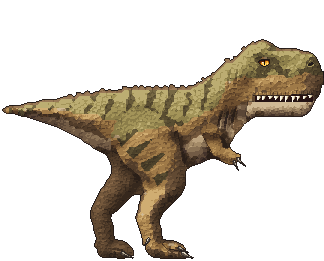
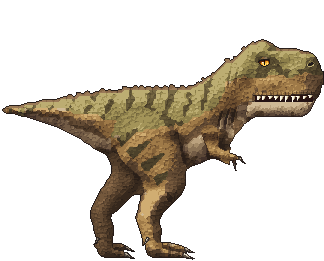
Rex: toes and claws drawn toe by toe, a two-fingered hand
Each foot is the ball of the foot and two toes seen from the side, the
outer one in front and the middle one behind it, three knuckles each with
creases between and a claw at the tip; the far foot the same, darker. The
little arm bends at a clear elbow to a hand of two spread fingers, each
with its claw.

diff --git a/internal/dinopaint/rex.go b/internal/dinopaint/rex.go
@@ -16,12 +16,25 @@ var (
 func init() { Register(rex()) }
 
 func rex() *Species {
+	// The feet: the ball of the foot, then two toes seen from the side, the
+	// outer one in front and low, the middle one behind it and longer, each
+	// in three knuckles. The far foot is the same, smaller and darker.
+	nearBall := Ellipse(51.6, 83.4, 3.0, 2.6, 0.1)
+	nearToe := Path([3]float64{53.2, 84.2, 1.75}, [3]float64{56.6, 84.6, 1.45}, [3]float64{59.6, 85.0, 1.15}, [3]float64{61.9, 85.3, 0.85})
+	nearToe2 := Path([3]float64{53.4, 82.2, 1.45}, [3]float64{56.8, 82.0, 1.2}, [3]float64{59.9, 82.5, 0.95}, [3]float64{62.3, 83.3, 0.7})
+	farBall := Ellipse(35.2, 83.4, 2.8, 2.5, 0.1)
+	farToe := Path([3]float64{36.8, 84.2, 1.6}, [3]float64{39.8, 84.6, 1.3}, [3]float64{42.3, 85.1, 0.85})
+	farToe2 := Path([3]float64{37, 82.2, 1.35}, [3]float64{40, 82.1, 1.1}, [3]float64{42.5, 82.8, 0.7})
+	finger1 := Cone(78.0, 52.2, 0.75, 80.1, 52.9, 0.55) // the near finger
+	finger2 := Cone(77.5, 52.9, 0.72, 78.4, 54.8, 0.52) // the far one, behind
+	feet := Union(nearBall, nearToe, nearToe2, farBall, farToe, farToe2)
+	hand := Union(Cone(76.2, 52.1, 1.3, 78.2, 52.5, 1.05), finger1, finger2)
 	// The masses, in depth order.
 	farLeg := Union(
-		Cone(41, 49, 8.5, 40.5, 60, 5.5),      // thigh
-		Cone(40.5, 60, 5.2, 34, 71, 3.4),      // shin
-		Cone(34, 71, 3.4, 35, 81.5, 2.8),      // metatarsus
-		Cone(35, 83.2, 2.8, 41.2, 84.9, 1.35), // toes
+		Cone(41, 49, 8.5, 40.5, 60, 5.5), // thigh
+		Cone(40.5, 60, 5.2, 34, 71, 3.4), // shin
+		Cone(34, 71, 3.4, 35, 81.5, 2.8), // metatarsus
+		farBall, farToe,
 	)
 	body := Blend(3,
 		Path([3]float64{-1, 37.2, 0.8}, [3]float64{12, 36.6, 2.8}, [3]float64{24, 37, 5.8}, [3]float64{35, 39.5, 9.5}), // the tail
@@ -31,27 +44,35 @@ func rex() *Species {
 		Poly(77, 21, 84, 14, 89, 12.5, 95, 14.5, 102, 15.5, 107, 19, 108, 27, 107, 33, 104, 40, 84, 40.5, 78, 36), // the head
 	)
 	jaw := Poly(82.5, 33.7, 105.5, 33.4, 105, 36.5, 102.5, 39.6, 86, 40.2, 81.6, 38.5) // the lower jaw
+	// The little arm: upper arm, elbow, forearm, and a hand of two fingers,
+	// spread, each with its claw.
 	arm := Union(
-		Cone(70, 44, 2.9, 72.6, 50.2, 2.2), // upper arm
-		Cone(72.6, 50.2, 2.1, 77.6, 52.6, 1.6),
-		Cone(77.6, 52.6, 1.5, 80.2, 53.6, 1.0), // the hand
+		Cone(69.8, 44.2, 2.7, 71.3, 50.2, 2.0),   // upper arm
+		Cone(71.3, 50.3, 1.85, 76.2, 52.1, 1.35), // forearm
+		Cone(76.2, 52.1, 1.3, 78.2, 52.5, 1.05),  // the hand
+		finger1,
 	)
 	nearLeg := Union(
 		Cone(49, 47, 10.8, 57, 61, 5.2), // the great drumstick of the thigh
 		Cone(58, 62, 5, 50, 72, 3.4),    // shin
 		Cone(50, 72, 3.4, 51.5, 81.5, 2.9),
-		Cone(51.5, 83.2, 3.0, 54.5, 84.6, 2.1), // the ball of the foot
-		Cone(54, 84.3, 2.0, 61.6, 85.1, 1.15),  // the near toe
+		nearBall, nearToe,
 	)
-	nearToe2 := Cone(53.5, 82.6, 1.75, 60.2, 83.3, 1.0) // the middle toe, a little behind
 	return &Species{
 		Name:        "rex",
 		GuideDetail: 0.3,
 		Ink:         44,
-		Add:         []SDF{Cone(54, 84.3, 2.0, 61.6, 85.1, 1.15), nearToe2, Cone(35, 83.2, 2.8, 41.2, 84.9, 1.35)},
-		// The tip of the far toe reaches under the near leg in the guide; the
-		// rig would take it for the near foot's.
-		Remove: []SDF{Poly(44.6, 81.6, 48.4, 81.6, 48.4, 88, 44.6, 88)},
+		// The guide's toes and hand are drawn again, toe by toe and finger by
+		// finger.
+		Add: []SDF{feet, hand},
+		Remove: []SDF{
+			Cut(Poly(53.8, 78.5, 67, 78.5, 67, 89, 53.8, 89), feet),
+			Cut(Poly(37.6, 78.8, 44.6, 78.8, 44.6, 89, 37.6, 89), feet),
+			Cut(Poly(76.6, 50, 84, 50, 84, 58.5, 76.6, 58.5), hand),
+			// The tip of the far toe reaches under the near leg in the guide;
+			// the rig would take it for the near foot's.
+			Poly(44.6, 81.6, 48.4, 81.6, 48.4, 88, 44.6, 88),
+		},
 		Materials: []Material{
 			{Name: "back", Seeds: []uint32{0x6b5e38, 0x857748, 0xa0915e, 0x918355, 0x7b6e48},
 				Ramp: []uint32{0x2a221c, 0x3b3224, 0x4e442c, 0x625735, 0x776a3f, 0x8c7e4a, 0xa39459, 0xbcad72}},
@@ -66,10 +87,14 @@ func rex() *Species {
 				Ramp: []uint32{0x2a1f18, 0x36281d, 0x433223, 0x523d2a, 0x624a33, 0x74583c, 0x886848, 0x9a7a58}},
 		},
 		Parts: []Part{
+			{Name: "farToe2", Shape: farToe2, Far: true, Round: 1.3, Soft: 0.45, Scale: 0.6, Mat: "far", Muscles: []Muscle{
+				Mu(38.5, 81.9, 1.3, 0.9, 0, 0.5), Mu(41.2, 82.3, 1.0, 0.7, 0, 0.4),
+			}},
 			{Name: "farLeg", Shape: farLeg, Far: true, Round: 4, Scale: 0.8, Mat: "far", Muscles: []Muscle{
 				Mu(41, 52, 6, 7, 0, 1.6),                                           // the thigh
 				Mu(38, 64.5, 3, 3.5, 0.5, 0.8),                                     // the calf
-				Mu(37.2, 83.8, 1.2, 1.0, 0, 0.5), Mu(39.6, 84.2, 1.0, 0.9, 0, 0.4), // knuckles
+				Mu(35.2, 83.6, 2.2, 1.8, 0, 0.6),                                   // the ball of the foot
+				Mu(38.3, 84.3, 1.4, 1.1, 0, 0.6), Mu(41.1, 84.8, 1.1, 0.8, 0, 0.5), // knuckles
 			}},
 			{Name: "body", Shape: body, Round: 9, RoundAt: func(x, y float64) float64 { return lerp(7.5, 4.5, smoothstep(74, 84, x)) }, Muscles: []Muscle{
 				Mu(81, 24.5, 4.5, 5.5, 0.3, 2.3),   // the jaw muscle behind the eye
@@ -91,20 +116,27 @@ func rex() *Species {
 			{Name: "jaw", Shape: jaw, Round: 2.6, Soft: 0.6, Scale: 0.8, Muscles: []Muscle{
 				Mu(91, 36.5, 8, 2.2, 0.05, 0.7),
 			}},
-			{Name: "arm", Shape: arm, Round: 2.2, Soft: 0.5, Scale: 0.65, Mat: "flank", Onto: "body", Seam: Below(64, 46.5, 76, 44.5), Muscles: []Muscle{
-				Mu(70.8, 46.2, 2.2, 2.8, 0.3, 0.8),
+			{Name: "finger2", Shape: finger2, Round: 0.7, Soft: 0.35, Scale: 0.5, Mat: "flank", Muscles: []Muscle{
+				Mu(78, 53.8, 0.6, 0.8, 0.5, 0.3),
 			}},
-			{Name: "nearToe2", Shape: nearToe2, Round: 1.6, Soft: 0.5, Scale: 0.7, Muscles: []Muscle{
-				Mu(55.6, 82.6, 1.1, 0.9, 0, 0.4), Mu(58, 82.9, 1.0, 0.8, 0, 0.35),
+			{Name: "arm", Shape: arm, Round: 1.8, Soft: 0.4, Scale: 0.6, Mat: "flank", Onto: "body", Seam: Below(64, 46.5, 76, 44.5), Muscles: []Muscle{
+				Mu(70.6, 46.4, 2.0, 2.8, 0.3, 0.9),   // the upper arm
+				Mu(73.8, 51.3, 2.4, 1.2, 0.35, 0.55), // the forearm
+				Mu(71.4, 50.2, 1.1, 1.1, 0, 0.35),    // the elbow
+				Mu(79.0, 52.6, 0.9, 0.5, 0.35, 0.25), // the finger
+			}},
+			{Name: "nearToe2", Shape: nearToe2, Round: 1.4, Soft: 0.45, Scale: 0.6, Muscles: []Muscle{
+				Mu(55.1, 81.9, 1.5, 1.0, 0, 0.55), Mu(58.4, 82.1, 1.3, 0.85, 0, 0.45), Mu(61.1, 82.8, 0.9, 0.6, 0, 0.3),
 			}},
 			{Name: "nearLeg", Shape: nearLeg, Round: 7, Onto: "body", Seam: Below(30, 50, 66, 44), Muscles: []Muscle{
-				Mu(48.5, 46.5, 8, 9.5, -0.3, 2.3),                                                                   // the drumstick
-				Mu(56, 52.5, 4, 7.5, -0.35, 1.3),                                                                    // the front of the thigh
-				Mu(42.5, 53.5, 3.6, 6, 0.2, 0.9),                                                                    // the back of the thigh
-				Mu(59, 63.5, 2.2, 2.2, 0, 0.7),                                                                      // the knee
-				Mu(53.5, 66, 3.4, 3.4, 0.6, 1.1),                                                                    // the calf
-				Mu(50, 72, 2, 2, 0, 0.4),                                                                            // the ankle
-				Mu(56, 84.4, 1.3, 1.1, 0, 0.5), Mu(58.6, 84.6, 1.2, 1.0, 0, 0.45), Mu(60.8, 84.8, 1.0, 0.9, 0, 0.4), // knuckles
+				Mu(48.5, 46.5, 8, 9.5, -0.3, 2.3),                                                                     // the drumstick
+				Mu(56, 52.5, 4, 7.5, -0.35, 1.3),                                                                      // the front of the thigh
+				Mu(42.5, 53.5, 3.6, 6, 0.2, 0.9),                                                                      // the back of the thigh
+				Mu(59, 63.5, 2.2, 2.2, 0, 0.7),                                                                        // the knee
+				Mu(53.5, 66, 3.4, 3.4, 0.6, 1.1),                                                                      // the calf
+				Mu(50, 72, 2, 2, 0, 0.4),                                                                              // the ankle
+				Mu(51.6, 83.6, 2.4, 2.0, 0, 0.7),                                                                      // the ball of the foot
+				Mu(54.9, 84.3, 1.6, 1.3, 0, 0.6), Mu(58.1, 84.8, 1.4, 1.1, 0, 0.55), Mu(60.8, 85.1, 1.0, 0.8, 0, 0.4), // knuckles
 			}},
 		},
 		Skin: Skin{Flank: 1.75, Back: 3.6, Belly: 1.35, BackDepth: 5, BellyDepth: 5, Seed: 11},
@@ -117,12 +149,14 @@ func rex() *Species {
 			{Pts: []float64{79.5, 21.5, 78.6, 25.5, 78.4, 29}, N: 2, DX: -2.6, DY: 1.2, Depth: 1.2}, // behind the skull
 			{Pts: []float64{55, 63.6, 57.8, 66.6}, N: 2, DY: 1.4, Depth: 1.3},                       // behind the knee
 			{Pts: []float64{48.6, 74.5, 51.6, 74.2}, N: 4, DY: 1.9, Depth: 0.7},                     // across the metatarsus
-			{Pts: []float64{57.3, 83.5, 57.1, 86}, N: 2, DX: 2.4, Depth: 1.2},                       // between the knuckles
-			{Pts: []float64{54.2, 83.2, 57.5, 83.5, 61, 84.1}, N: 1, Depth: 1.8},                    // where the near toe lies over the middle one
-			{Pts: []float64{36, 82.8, 39, 83.1, 42, 83.7}, N: 1, Depth: 1.4},
-			{Pts: []float64{56.8, 81.7, 56.7, 83.6}, N: 2, DX: 2.3, Depth: 0.9},
+			{Pts: []float64{56.6, 83.3, 56.6, 85.9}, N: 2, DX: 3.0, DY: 0.35, Depth: 1.3},           // between the knuckles of the near toe
+			{Pts: []float64{56.8, 80.9, 56.8, 82.9}, N: 2, DX: 3.1, DY: 0.4, Depth: 1.0},            // and of the middle one
+			{Pts: []float64{39.8, 83.5, 39.8, 85.7}, N: 1, Depth: 1.1},
+			{Pts: []float64{40, 81.2, 40, 82.9}, N: 1, Depth: 0.8},
+			{Pts: []float64{48.6, 82.6, 50.4, 85.6}, N: 1, Depth: 0.8}, // the heel's pad
 			{Pts: []float64{32.4, 74, 35.6, 73.8}, N: 4, DY: 1.9, Depth: 0.6},
-			{Pts: []float64{38.4, 82.6, 38.3, 85.8}, N: 2, DX: 2.2, Depth: 0.9},
+			{Pts: []float64{71.4, 49.6, 72.6, 51.4}, N: 1, Depth: 0.9}, // the elbow
+			{Pts: []float64{76.3, 51.2, 76.5, 53.0}, N: 1, Depth: 0.9}, // the wrist
 		},
 		Details: rexDetails,
 	}
@@ -137,10 +171,15 @@ func rexDetails(p *Painter) {
 	// Claws: on the toes of both feet, the dewclaw and the two fingers. A
 	// foot's claws stay inside the columns the rig cuts its leg from
 	// (45-64 for the near leg, 27-44 for the far one).
-	p.Claw(41.0, 84.4, 44.5, 86.0, 1.4, 0.4, clawHorn[:5])
-	p.Claw(59.9, 82.7, 62.8, 84.1, 1.2, 0.3, clawHorn[:5])
-	p.Claw(61.2, 84.5, 64.5, 86.0, 1.5, 0.45, clawHorn)
-	p.Claw(49.5, 79.8, 47.9, 82.0, 1.05, 0.3, clawHorn)
-	p.Claw(79.3, 52.9, 81.9, 55.4, 1.0, 0.35, clawHorn)
-	p.Claw(78.1, 53.9, 79.6, 56.8, 0.9, 0.25, clawHorn)
+	// The far foot's, darker.
+	p.Claw(42.0, 84.8, 44.8, 86.1, 1.3, 0.35, clawHorn[:5])
+	p.Claw(42.2, 82.6, 44.9, 83.8, 1.1, 0.3, clawHorn[:4])
+	p.Claw(32.7, 79.6, 31.3, 81.6, 0.9, 0.25, clawHorn[:4])
+	// The near foot's: the middle toe's, the near toe's, the dewclaw.
+	p.Claw(62.0, 83.1, 64.9, 84.3, 1.2, 0.35, clawHorn[:5])
+	p.Claw(61.6, 85.0, 64.8, 86.3, 1.45, 0.4, clawHorn)
+	p.Claw(49.2, 79.6, 47.6, 81.9, 1.0, 0.3, clawHorn)
+	// The fingers'.
+	p.Claw(78.3, 54.7, 78.7, 56.9, 0.8, 0.3, clawHorn)
+	p.Claw(80.0, 52.7, 81.9, 54.6, 0.85, 0.35, clawHorn)
 }
